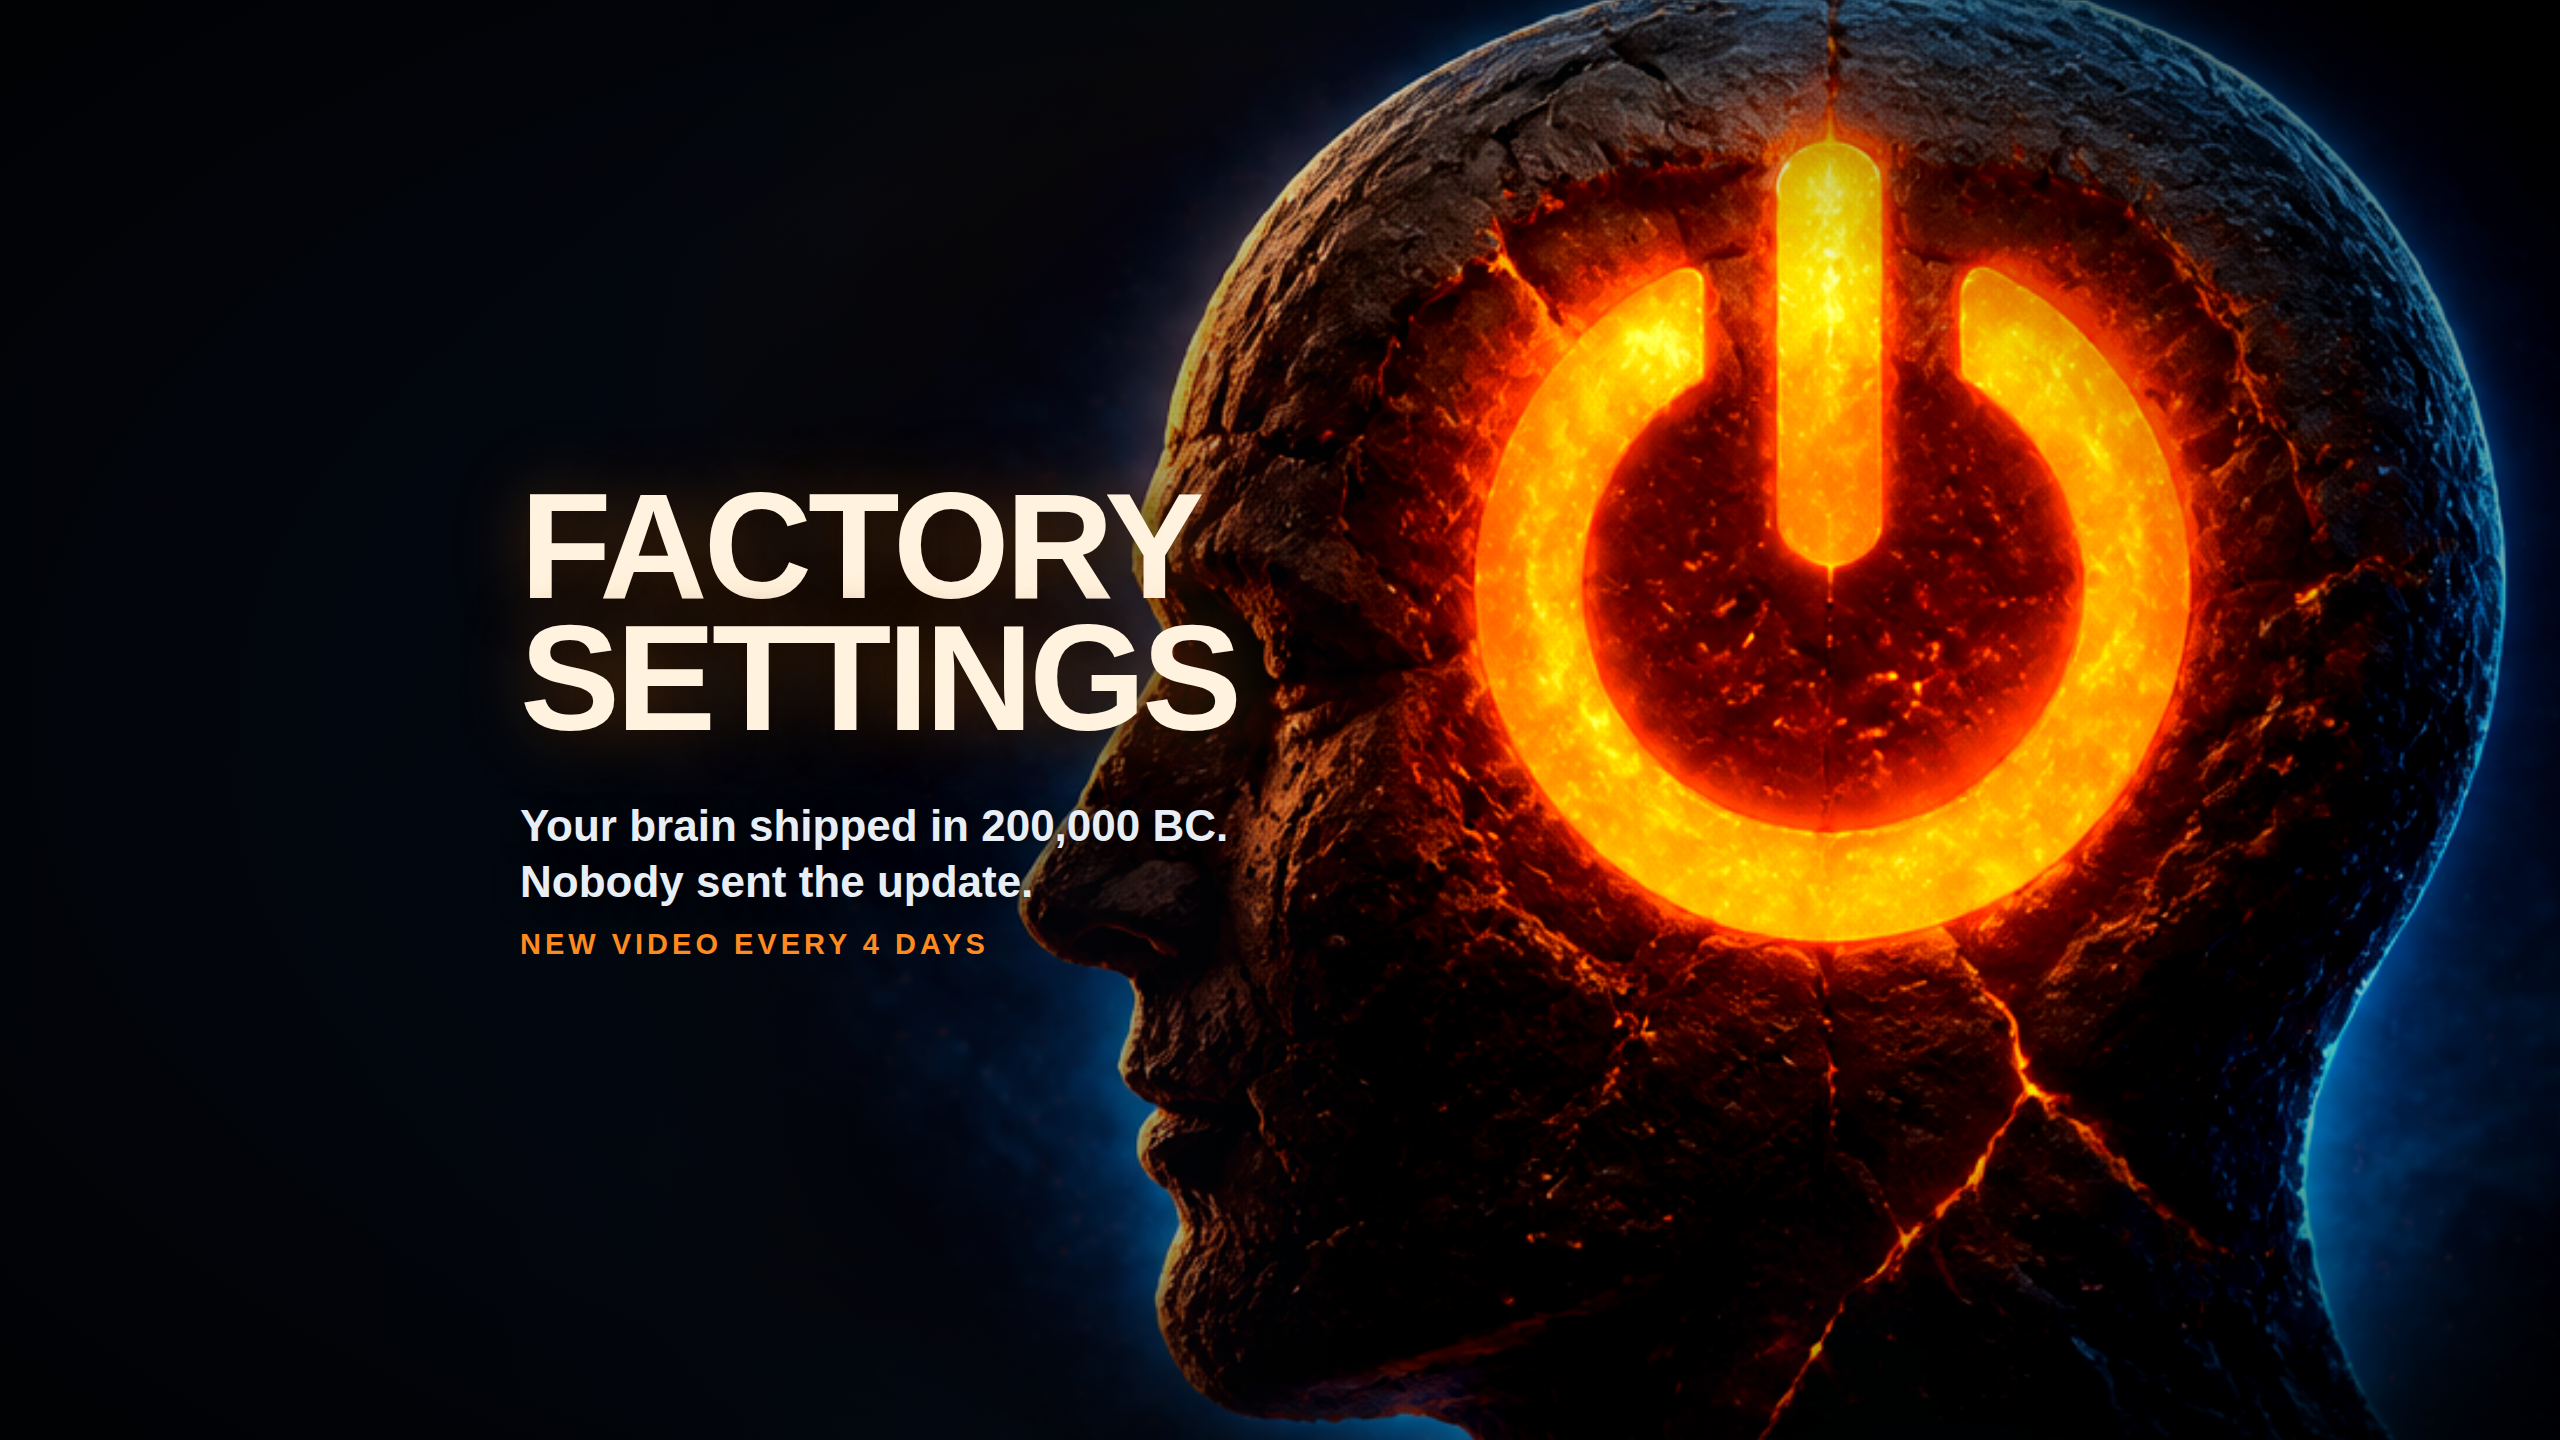
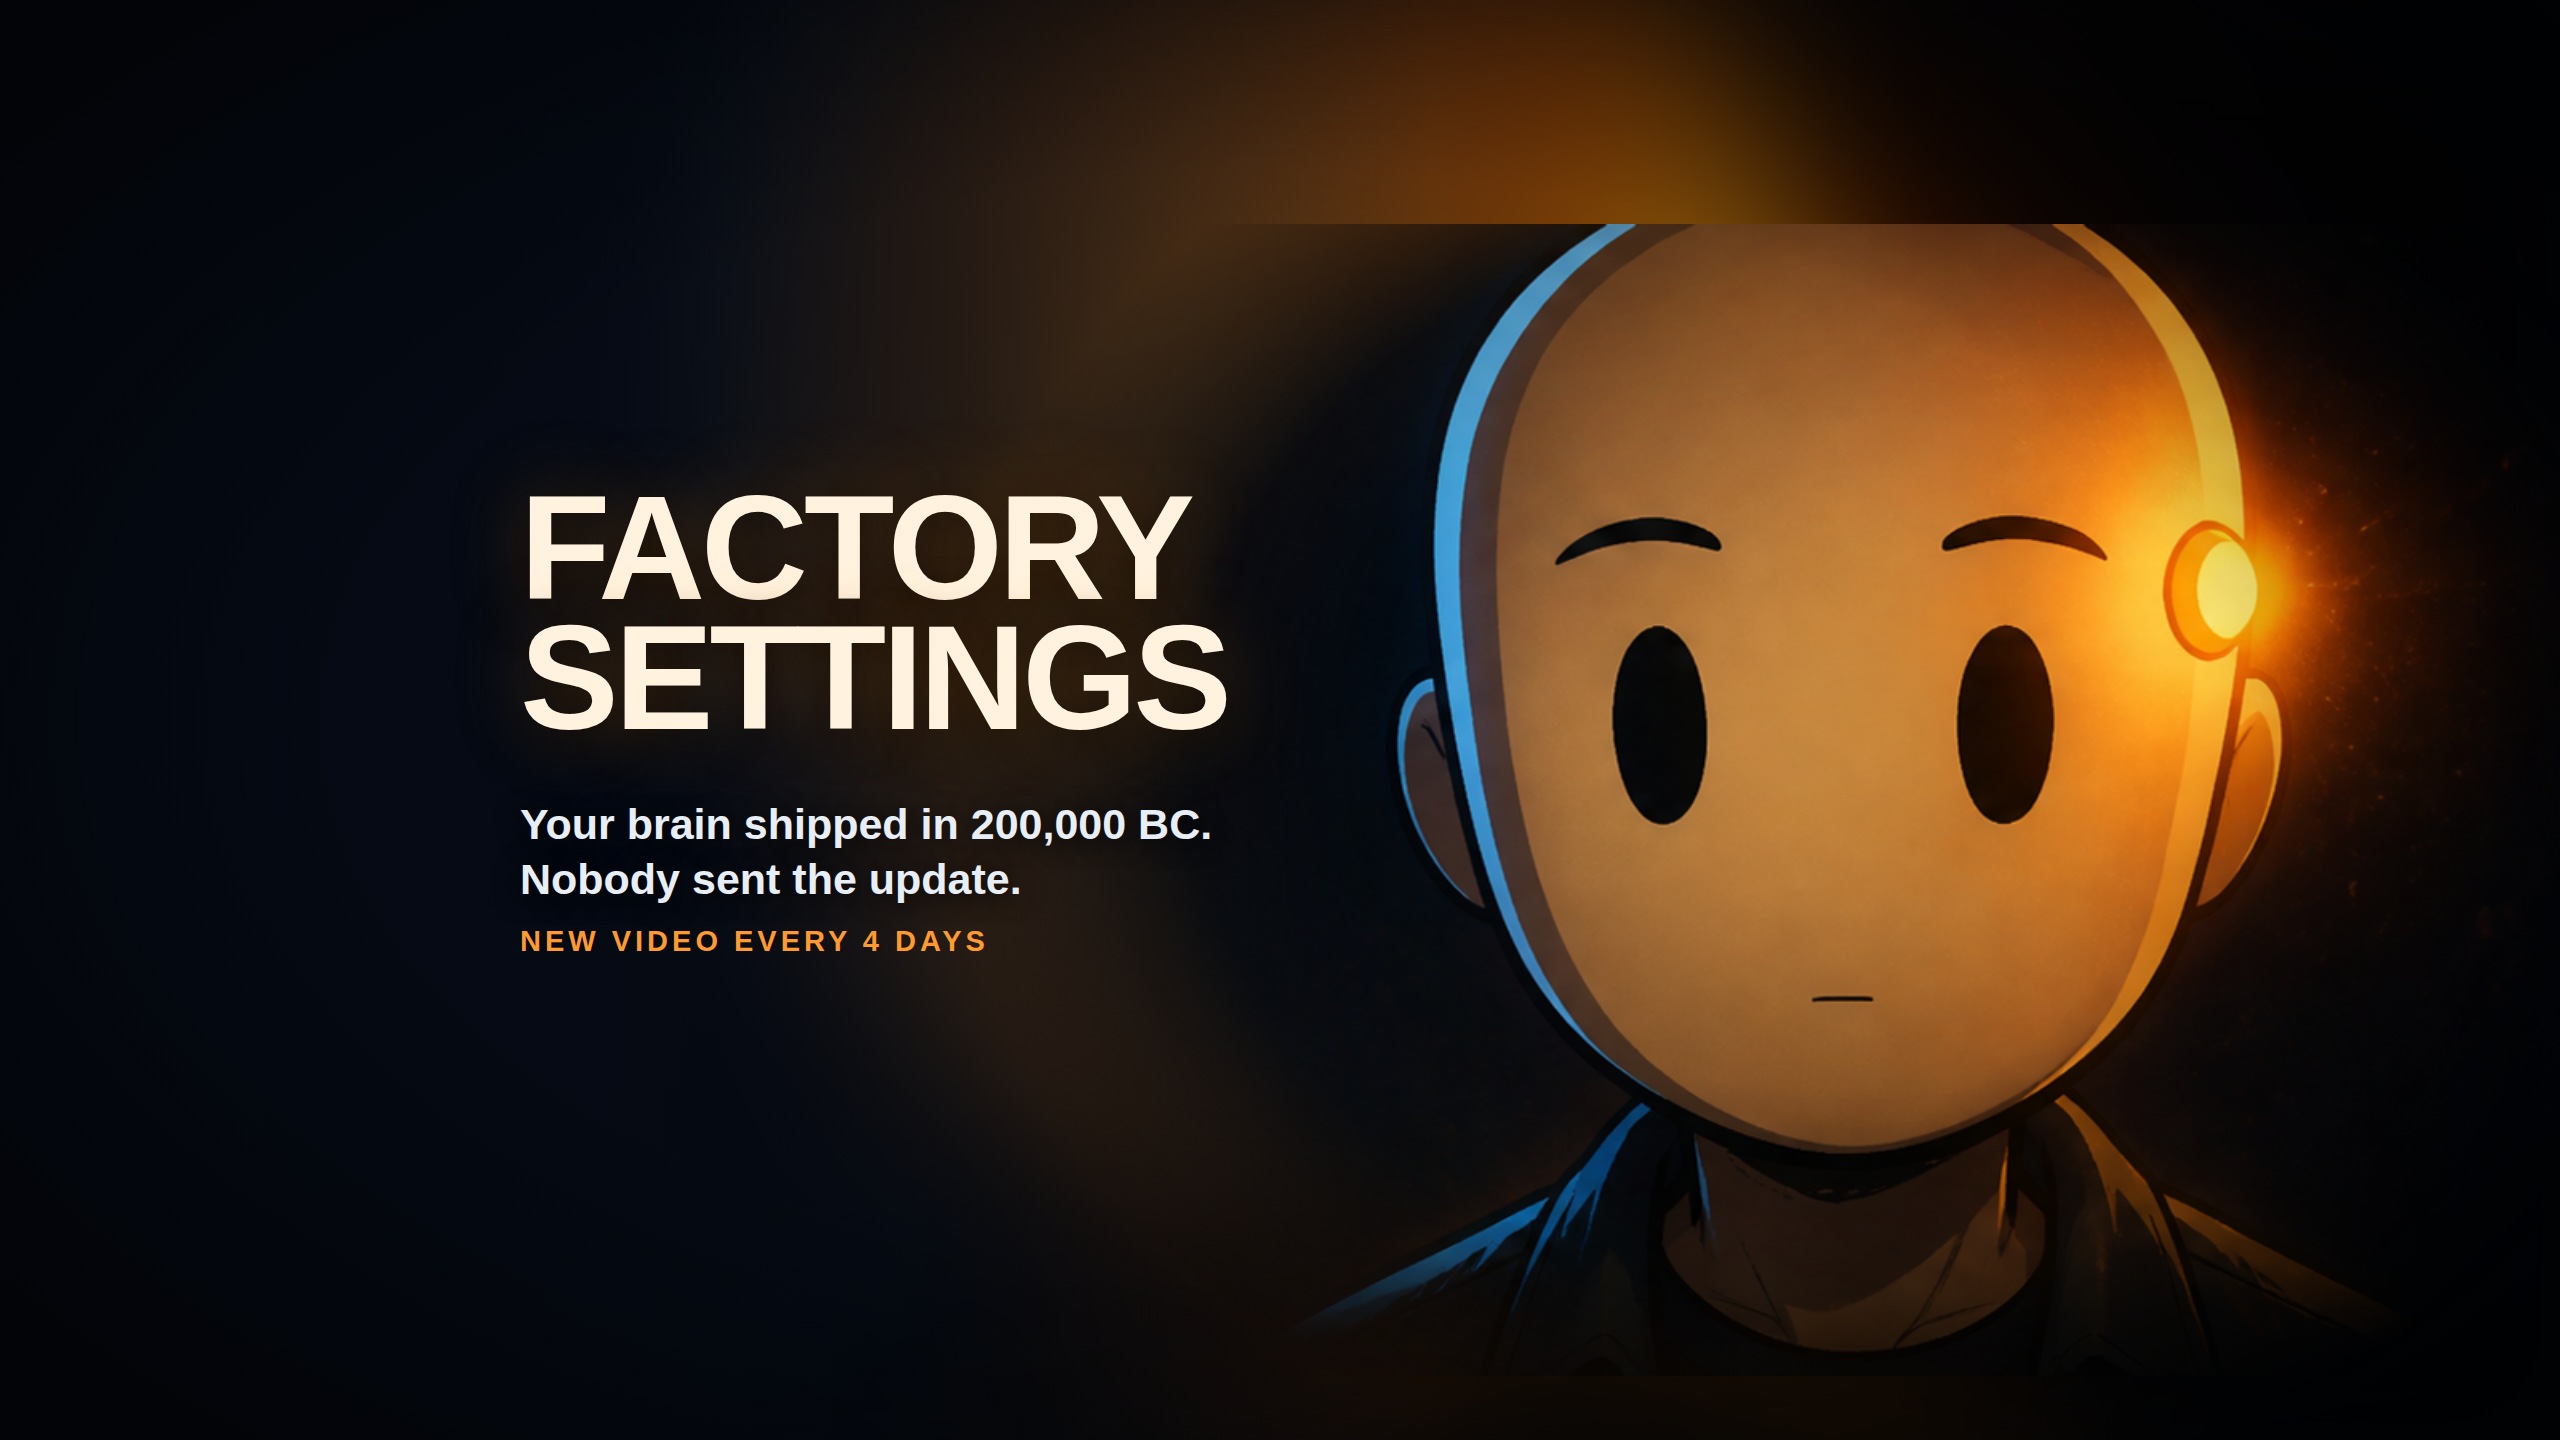
Corregir el formato a documental animado 2D con host consistente
Revierte la recomendacion anterior de imagenes fijas, que se apoyaba en una
premisa falsa. El handoff con corte del 22 de agosto daba la consistencia de
personaje por no resuelta, pero MANUAL_PRODUCCION.md, posterior, dice que la
Tecnica B de repeticion textual ya esta validada en vivo con alta fidelidad y
que no bloquea produccion. La contradiccion ya estaba registrada en el
inventario y aun asi se uso el dato viejo.

El formato correcto es el probado del nicho: Zenn logra 179.000 subs y
550.000 vistas de media con documental animado 2D faceless.

Anade el host nuevo de Factory Settings, generado con IA y distinto del
personaje del canal anterior: sin gorra ni hoodie, con una luz ambar
encendida en la sien como firma que enlaza con el nombre.

Incluye la ficha canonica del personaje para pegar en cada Image Prompt, la
clausula negativa, la biblia visual y el flujo de produccion por video.
Rehace avatar y banner a partir del host nuevo.

Claude-Session: https://claude.ai/code/session_01HHTZtro6JcJVSNvfMrETUm

diff --git a/youtube/mindset-mechanics/FORMATO-DE-PRODUCCION.md b/youtube/mindset-mechanics/FORMATO-DE-PRODUCCION.md
@@ -1,100 +1,98 @@
-# Formato de producción — decisión y evidencia
+# Formato de producción — Factory Settings
 
-**Decidido el 2026-08-26.** Esta decisión va **antes** que la marca visual: define qué se ve en cada
-video, y la marca tiene que derivarse de ella, no al revés.
+**Decidido el 2026-08-26.**
 
 ---
 
-## 1. Qué formato usan los que ganan en el nicho
+## 1. Formato: documental animado 2D con host consistente
 
-De `PLAYBOOK_MONETIZACION.md`, datos ya verificados:
+Es el formato probado del nicho. `PLAYBOOK_MONETIZACION.md`:
 
 | Canal | Formato | Resultado |
 |---|---|---|
-| **Zenn** | Documental animado faceless, 8:00-8:40 | 32 videos → **179.000 subs**, 550k vistas de media |
-| **Professor Stickman** | **Pictogramas, host ausente** | 200-540k por video con solo **24.400 subs** |
-| **Decode The Brain** | **Sin host, narración sobre pictogramas** | *"Vía de producción más barata y rápida"* |
-| ONLI | Personaje 2D, cabeza ovalada | 785k el video top |
-| PsychToons | Cartoon | — |
+| **Zenn** | Documental animado 2D faceless, 8:00-8:40 | 32 videos → **179.000 subs**, **550.000 vistas de media** |
+| ONLI | Personaje 2D, cabeza ovalada | 785.000 el video top |
+| PsychToons | Cartoon 2D | — |
+| Professor Stickman | Pictogramas | 200-540k por video con 24.400 subs |
 
-**Ningún ganador del nicho usa 3D fotorrealista.** Dominan el 2D animado y los pictogramas.
+Ningún ganador del nicho usa fotorrealismo. **Zenn es la tesis de este canal ejecutada a escala**, y lo
+hace en 2D animado.
 
-## 2. La restricción que decide todo: tu capacidad real
+### Corrección registrada
 
-Historial medido, de `LEEME-PRIMERO-HANDOFF.md`:
+Una versión anterior de este documento recomendaba imágenes fijas cinematográficas, argumentando que la
+consistencia de personaje era un riesgo de producción. **Ese argumento era falso.**
+`MANUAL_PRODUCCION.md` §5 dice textualmente:
 
-- **4 videos largos publicados en 5 semanas.**
-- El quinto salió **impublicable**. Causa documentada: *"Personaje inconsistente — cara distinta en
-  casi cada escena."*
-- Toda la deuda técnica del paquete (`import_local_image()`, "Use Consistent Character", las tres
-  iteraciones de `style_lock_v1..v3`) existe para resolver **ese único problema**.
+> *"No bloquea producción — Técnica B (repetición textual, §2) ya está validada en vivo con resultado de
+> alta fidelidad. Técnica A es una mejora a perseguir cuando haya tiempo, no un requisito para producir
+> el canal hoy."*
 
-El plan pide **8 largos al mes**. Con animación de personaje a ~50 escenas por video, el historial dice
-que no ocurre. El personaje recurrente es la pieza más cara y más frágil del pipeline.
+La consistencia está resuelta y probada. El formato es 2D animado.
 
-## 3. Decisión: documental cinematográfico sin personaje
+## 2. El host
 
-Imágenes fijas generadas con IA + movimientos lentos de cámara (push in, paneo, tilt) + tipografía
-animada + narración.
+`marca/personaje.png` — generado con IA, es la referencia visual canónica.
 
-### Por qué
+Cabeza grande ovalada, sin nariz, sin pelo, ojos óvalos negros planos sin iris, cejas finas oscuras
+flotando por encima con hueco visible, boca pequeña y simple, piel crema plana, chaqueta de trabajo
+gris oscuro. **Su firma: una pequeña luz ámbar encendida en la sien derecha**, que proyecta luz cálida
+sobre ese lado de la cara — la máquina corriendo dentro del cráneo. Es lo que enlaza al personaje con
+el nombre del canal.
 
-| Ventaja | Detalle |
-|---|---|
-| **Elimina el problema, no lo gestiona** | Sin personaje recurrente no hay consistencia que mantener. Es la causa raíz del único video fallido. |
-| **~30 imágenes por video** en vez de 50 escenas animadas | 8 largos al mes pasa de imposible a realista. |
-| **Las miniaturas salen gratis** | Cada video produce 30 frames cinematográficos; cualquiera sirve de miniatura, ya en la paleta de marca. |
-| **Coherencia total** | El banner, el avatar y cada escena viven en el mismo mundo visual. |
-| **Diferenciación** | En un feed donde todos los canales de psicología son cartoon plano, esto no se parece a nada. |
+### Ficha canónica — Técnica B (obligatoria)
 
-### El riesgo, dicho claro
+Se pega **palabra por palabra, sin abreviar nunca**, al inicio de CADA Image Prompt de CADA escena.
+Nunca escribir "same character" o "same host" — eso es exactamente lo que rompió el video de Resiliencia.
 
-Lo probado en este nicho es 2D y pictograma. Este formato **no está validado aquí**. Es una apuesta a
-destacar por diferencia en vez de copiar lo que funciona. Si tras 3-4 videos el CTR no acompaña, la
-salida es el formato pictograma de Professor Stickman, que es aún más barato de producir.
+```
+Flat 2D animated documentary character, large rounded oversized head, no nose,
+no hair, plain black oval eyes with no iris and no highlight, thin dark eyebrows
+floating high above the eyes with a visible gap, very small simple mouth low on
+the face, flat cream skin, dark charcoal work jacket over a plain shirt, a small
+soft amber indicator light glowing at his right temple casting warm orange light
+across that side of his face, bold clean dark outlines, cel-shaded flat 2D
+animated documentary style, consistent appearance across all scenes.
+```
 
-## 4. Biblia visual — Factory Settings
+### Cláusula negativa (al final de cada Image Prompt)
+
+```
+Only the main character described — absolutely NO small side characters, NO
+children, NO spectators, NO extra people in the corners or background. No text,
+no letters, no signs or words anywhere in the image. No photorealism, no 3D
+render, no comic panels, no halftone.
+```
+
+### Técnica A — mejora opcional
+
+Subir `personaje.png` con `generate_video.py import-image` y activar "Consistent Character" +
+"Prompt Enhancement". Según `MANUAL_PRODUCCION.md` §5, `mark_consistent_character()` todavía falla al
+marcar una imagen subida a mano; el siguiente paso diagnosticado es generar una imagen con "Create
+Image" teniendo la Reference Photo seleccionada, y revisar si el botón se habilita sobre ese resultado.
+**No bloquea producción.**
+
+## 3. Biblia visual
 
 | Elemento | Regla |
 |---|---|
-| **Paleta** | Fondo `#02060E` casi negro · acento `#FF8A1F` ámbar incandescente · luz fría azul como contrapunto |
-| **Luz** | **Un solo foco cálido por plano.** Fuego, brasa, lámpara, pantalla. Nunca dos focos compitiendo. |
-| **Los dos colores nunca se tocan** | El ámbar es lo antiguo, el azul frío es lo moderno. Esa separación **es** la tesis. |
-| **Caras** | Silueta o contraluz. **Nunca un rostro identificable.** Elimina el problema de consistencia y sube el misterio. |
-| **Espacio negativo** | Generoso y deliberado. La distancia entre elementos carga el significado. |
-| **Textura** | Grano de película, polvo en suspensión, luz volumétrica, profundidad de campo real. |
-| **Prohibido** | Cartoon, 3D render brillante, vector plano, fondos blancos, texto dentro de la imagen generada. |
+| **Estilo** | Cel-shading 2D plano con iluminación cinematográfica. Contornos oscuros marcados. |
+| **Paleta** | Fondo `#050A14` azul casi negro · acento `#FF9A2E` ámbar · luz fría azul de contrapunto |
+| **Luz** | **Un solo foco cálido por plano.** El ámbar viene siempre de la sien del host o de una fuente de la escena. |
+| **Los dos colores no se mezclan** | Ámbar = mecánica antigua. Azul frío = mundo moderno. Esa separación **es** la tesis. |
+| **Personajes de fondo** | Aleatorios, nunca consistentes. Regla dura de VideoExpress: el toggle de Consistent Character se activa **solo** para el host. |
+| **Texto en imagen** | **Prohibido.** Los subtítulos van quemados en post, nunca generados dentro de la imagen. |
+| **Prohibido** | `comic`, `comic panel`, `halftone`, `vector`, `flat` como palabras de prompt · fotorrealismo · render 3D · fondos blancos |
+| **Salida** | 1920×1080 mínimo, siempre. Shorts 1080×1920. |
 
-### Plantilla de prompt
+## 4. Flujo por video
 
-```
-A cinematic documentary still. [ESCENA]. Single warm amber light source
-[fuente concreta] carving rim light onto [sujeto]. Cold blue darkness
-everywhere else — the two colors never touch. Faces in silhouette or
-backlit, never identifiable. Generous negative space. Volumetric light,
-drifting dust motes, film grain, photographic depth of field, painterly
-realism. Absolutely no text, no letters, no words anywhere.
-No cartoon, no 3D render.
-```
-
-## 5. Cómo se monta un video
-
-1. **Guion** (1.500-2.000 palabras para 10-13 min, a 150-172 palabras/minuto).
-2. **Marcar 30 puntos de escena**, uno cada ~25 segundos.
-3. **Generar 30 imágenes** con la plantilla de arriba.
-4. **Animar**: push in lento (2-4% de zoom) o paneo por escena. Nunca cortes secos entre imágenes;
-   fundidos de 0,4-0,6 s.
-5. **Subtítulos quemados** obligatorios — de ellos dependen los recortes de Shorts.
-6. **Salida 1920×1080 mínimo.**
-7. **Miniatura**: elegir el frame más fuerte y añadirle 2-3 palabras encima, con el texto compuesto
-   aparte, nunca generado dentro de la imagen.
-
-## 6. Archivo de referencia
-
-`marca/escena-ejemplo.png` — frame real generado para *The Psychology of People Who Apologize for
-Everything*: el grupo alrededor del fuego, el excluido solo en el frío azul. Es el estándar visual a
-igualar.
-
-**Nota sobre el scoring:** vidIQ puntuó esa imagen 84 y criticó *"demasiado espacio vacío"*. Ese
-criterio aplica a **miniaturas**, no a escenas. En un frame de video ese vacío es el mensaje. No
-optimizar escenas con reglas de miniatura.
+1. **Guion** — 1.500-2.000 palabras para 10-13 min, a 150-172 palabras/minuto.
+2. **Desglose en ~50 escenas**, una cada ~15 segundos.
+3. **Por escena:** ficha canónica del host + descripción de la escena + cláusula negativa → Image Prompt.
+4. **Video Action Prompt** con el vocabulario de cámara de `MANUAL_PRODUCCION.md` §3.
+5. **Subtítulos quemados** — obligatorios, de ellos dependen los recortes de Shorts.
+6. **QA contra el checklist** de `ESTILO_MINDSET_MECHANICS.md` §7 antes de ensamblar.
+7. **3-4 Shorts** recortados del largo con `make_ultrashorts.sh`: 12-18s, un hecho concreto, cero jerga
+   clínica en la apertura, badge de suscripción, enlazados como Related Video.
+8. **Miniatura**: frame del propio video + 2-3 palabras compuestas aparte, nunca generadas en la imagen.
